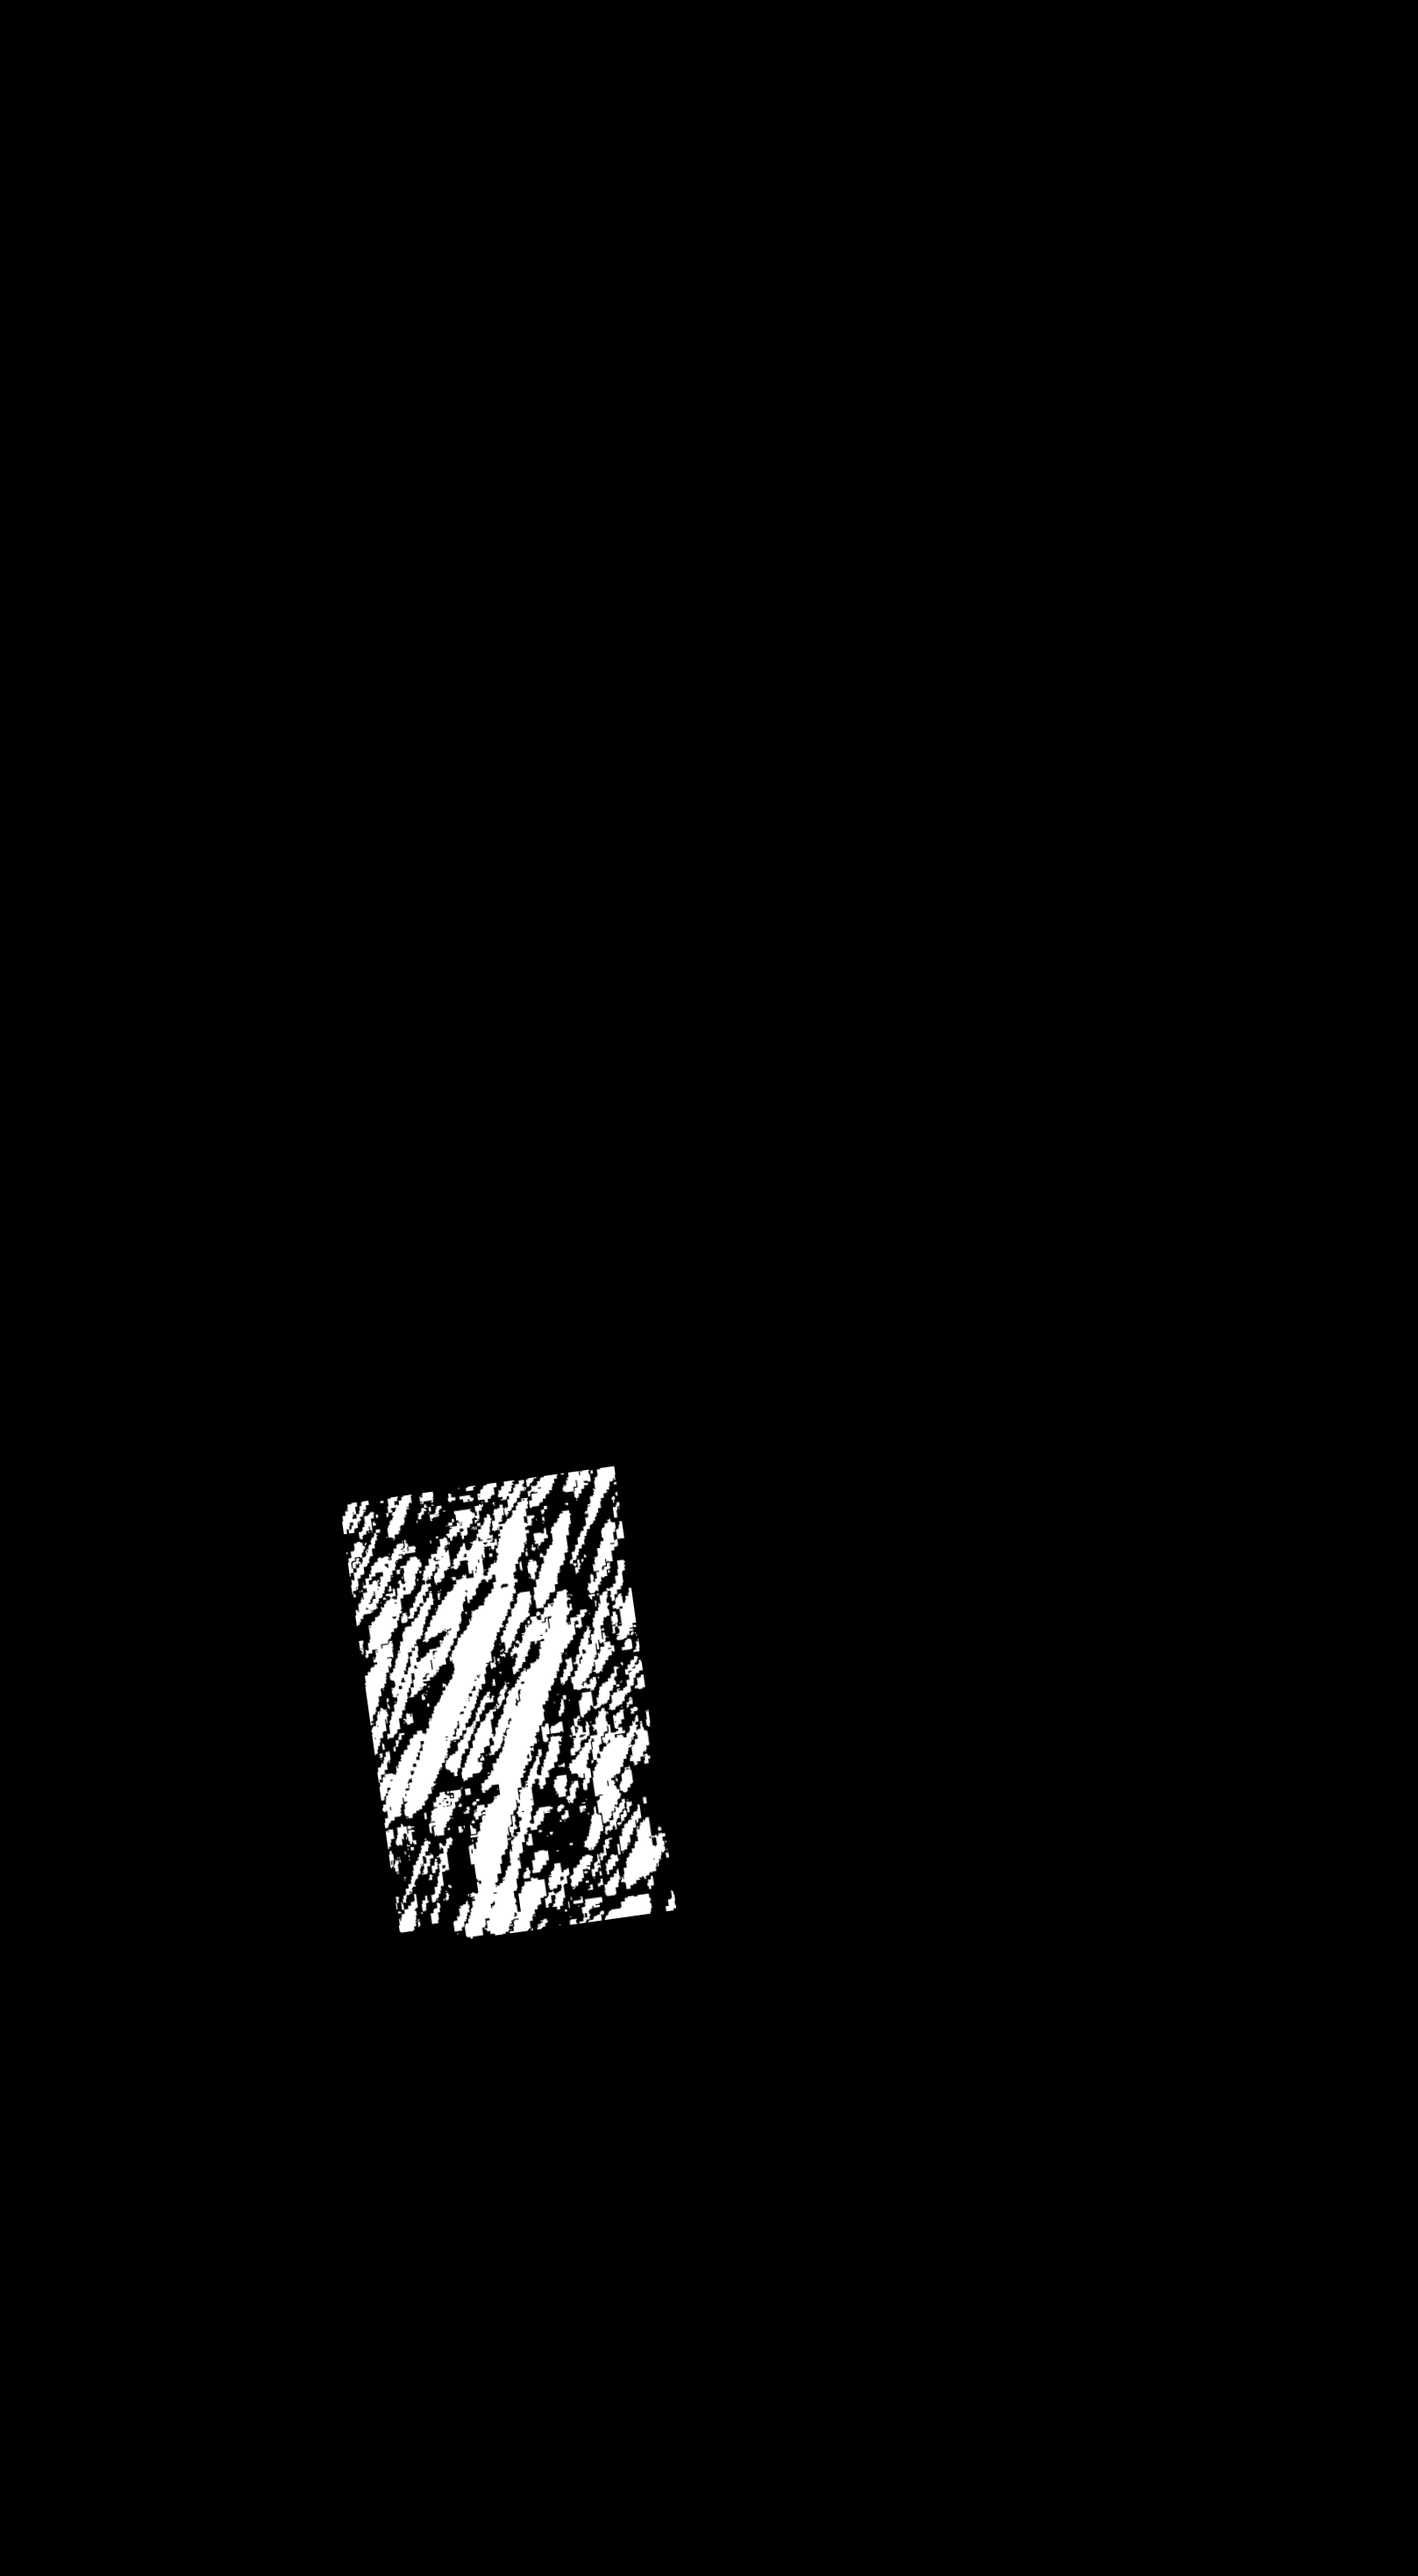
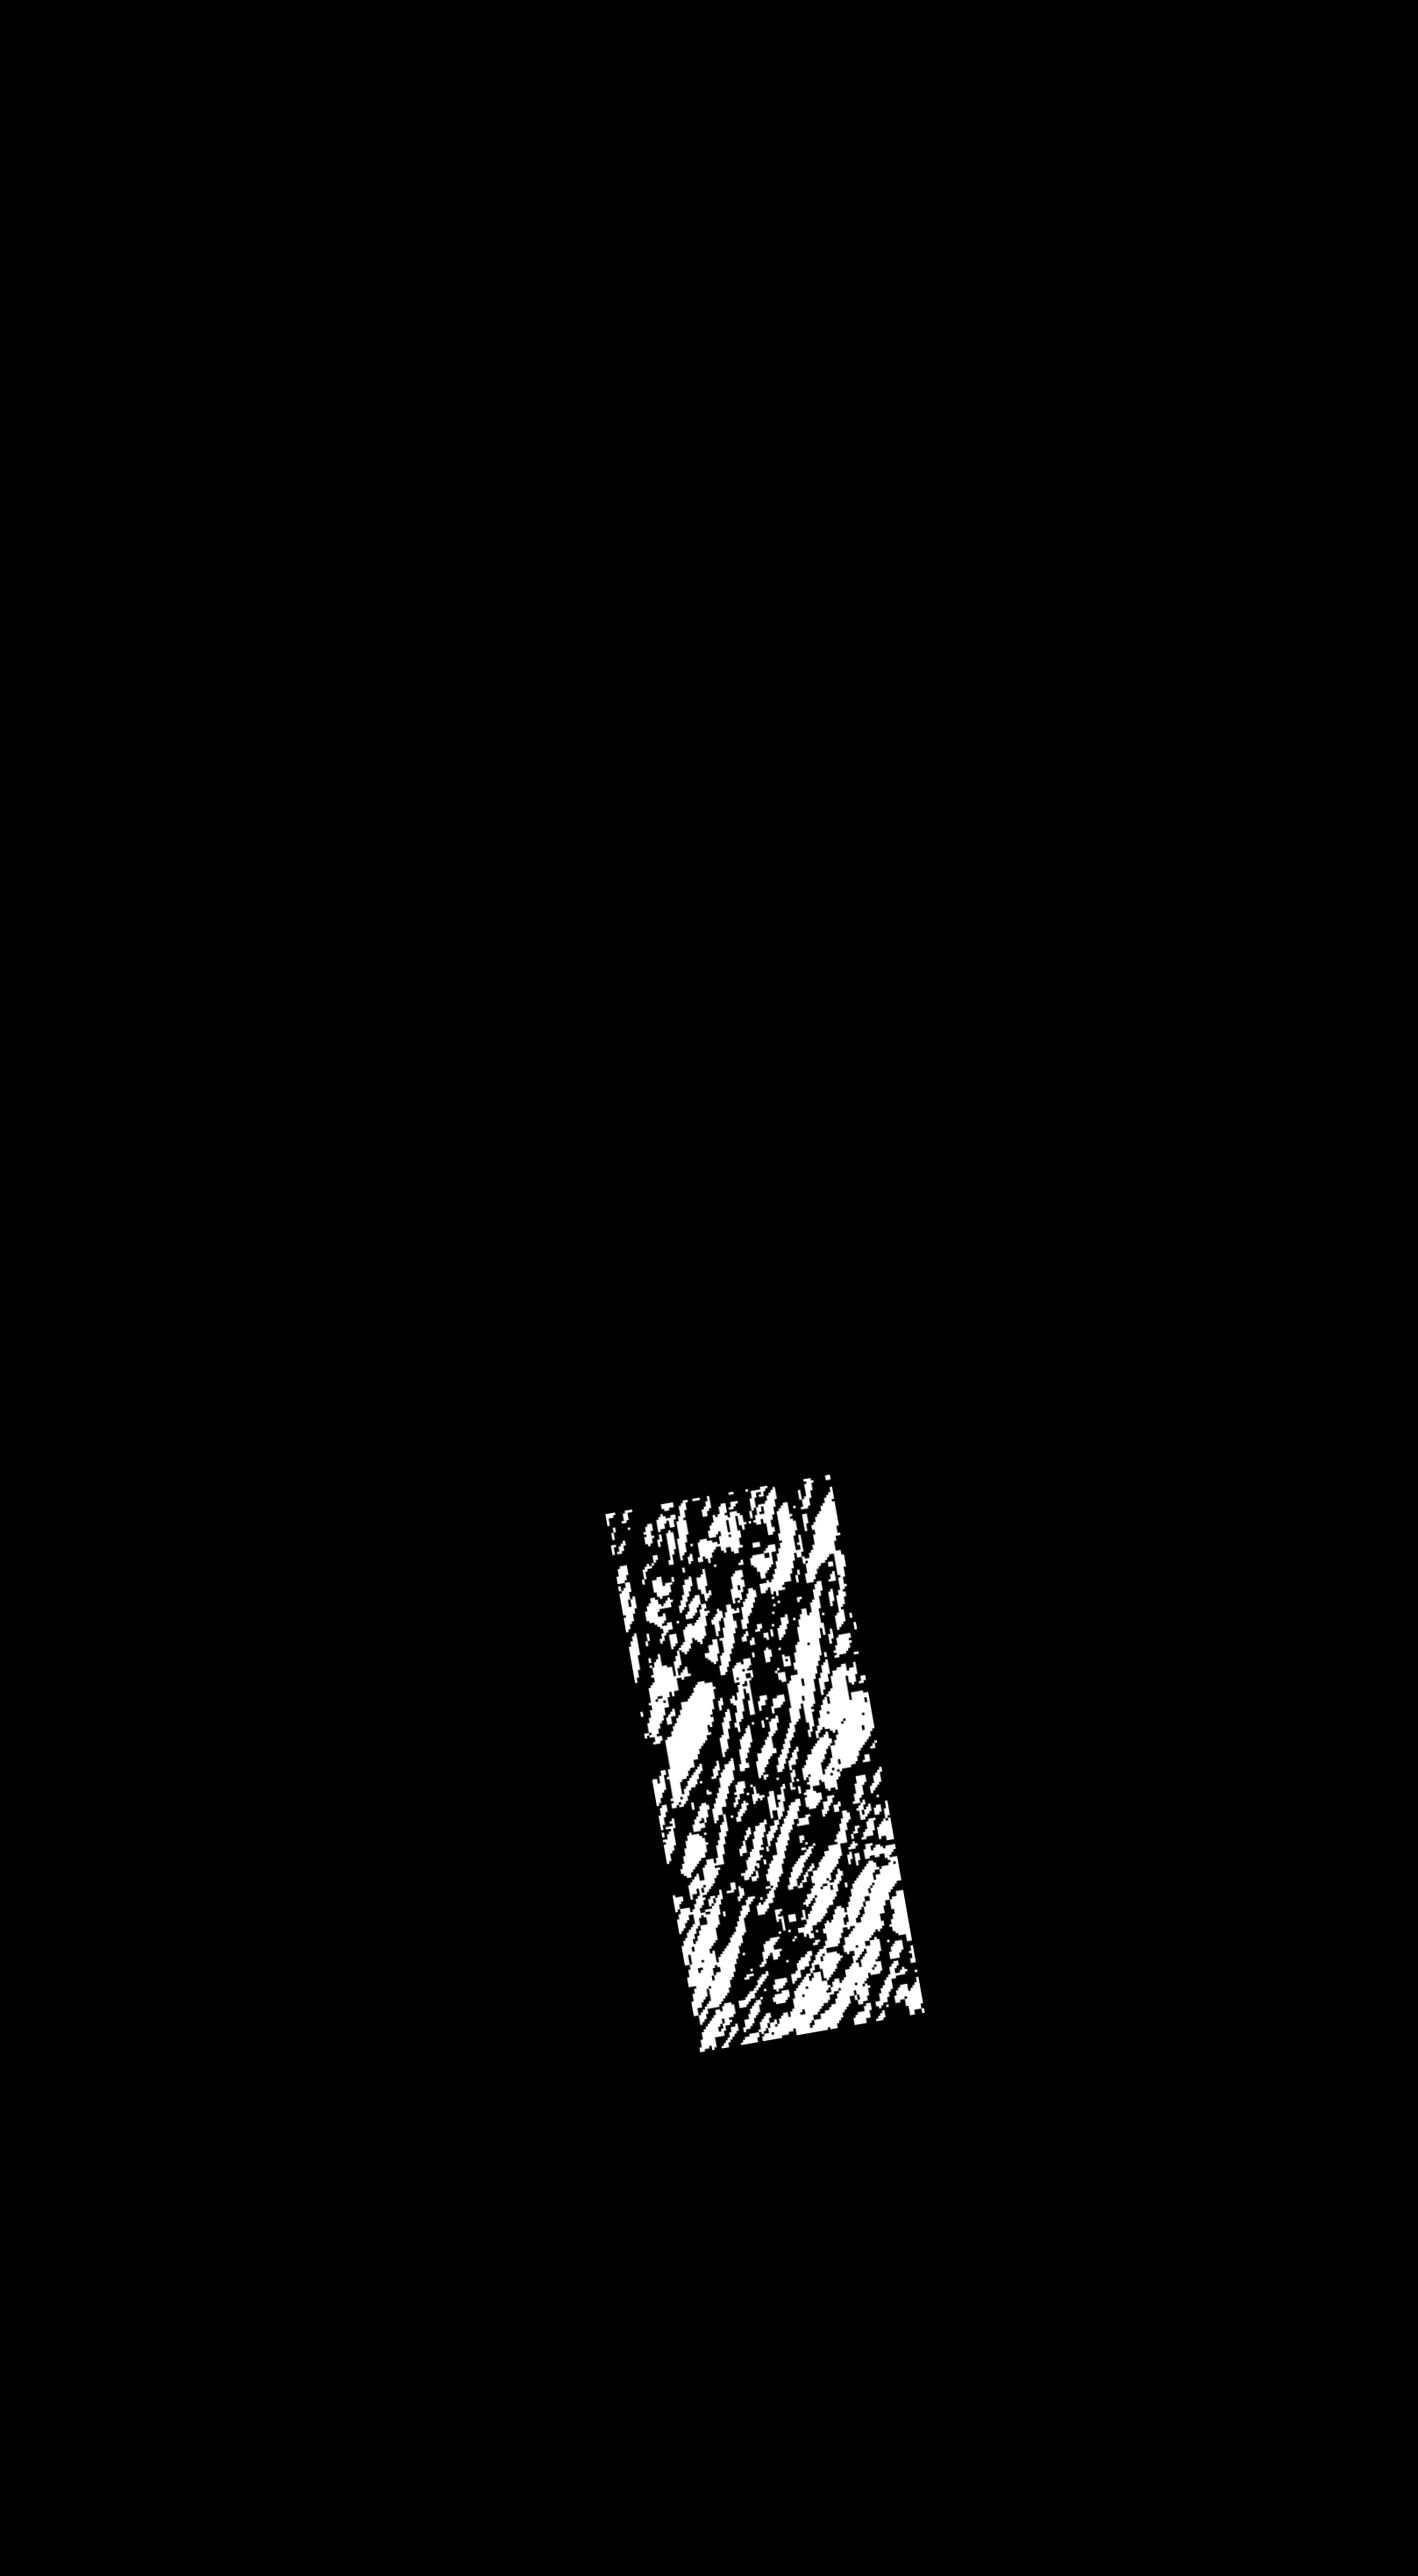
jan 27 update

Changed region(s): [[0.2474, 0.5577, 0.6494, 0.8056]]

diff --git a/scripts/run_align_command (align SEMCL to EBSD).py b/scripts/run_align_command (align SEMCL to EBSD).py
@@ -28,23 +28,23 @@ def main() -> None:
 #     seg_ref_path = repo_root / "data/RV/binary_ebsd_halfstone_floyd_maskout_black_compress.png" # switched between "seg" and "ebsd" 
 #     ebsd_ref_path = repo_root / "data/RV/binary_semcl_halfstone_floyd_cropped_compress.png"# switched between "seg" and "ebsd"
 # =============================================================================
-    seg_ref_path = repo_root / "data/RV/EBSD raw subset 1 maxentropy.png" # switched between "seg" and "ebsd" 
+    seg_ref_path = repo_root / "data/RV/EBSD raw subset 5 maxentropy.png" # switched between "seg" and "ebsd" 
     ebsd_ref_path = repo_root / "data/RV/SEMCL cropped for intensity analysis maxentropy.png"# switched between "seg" and "ebsd"
 # =============================================================================
 #     seg_ref_path = r"C:\Users\yuhan\Box\ChoyLab\Group members\Andrew\EBSD help Ricardo\dark spot analysis EPMA SEMCL\epma_binary_compress.png"
 #     ebsd_ref_path = r"C:\Users\yuhan\Box\ChoyLab\Group members\Andrew\EBSD help Ricardo\dark spot analysis EPMA SEMCL\semcl_nathans_mod_ML_results_imagej_modified-1 compress.png"
 # =============================================================================
-    config_path = repo_root / "conf/RV.align1.conf"
+    config_path = repo_root / "conf/RV.align5.conf"
     align_dir = repo_root / "data/RV/segment.align"
     out_dir = repo_root / "data/RV/out"    
     xp_id = 0
-    alpha_foreground = 1  # transparency between 0-1
-    alpha_background = 1  # transparency between 0-1
-    overlay_foreground_cmap = "Wistia"  # yellow-forward colormap for EBSD overlay
-    overlay_background_cmap = "cool"  # cyan-forward colormap for SEMCL overlay
+    alpha_foreground = 0.9  # transparency between 0-1
+    alpha_background = 0.5  # transparency between 0-1
+    overlay_foreground_cmap = "OrRd"  # yellow-forward colormap for EBSD overlay
+    overlay_background_cmap = "gray"  # cyan-forward colormap for SEMCL overlay
     overlay_mask_threshold = 0  # mask <= threshold so binary zeros stay transparent
-    overlay_background_color_min = 0.05  # fallback to gray if the SEMCL image is very dark
-    overlay_foreground_color_min = 0.05  # fallback to gray if the EBSD image is very dark
+    overlay_background_color_min = 0  # fallback to gray if the SEMCL image is very dark
+    overlay_foreground_color_min = 0  # fallback to gray if the EBSD image is very dark
     show_image_outline = True  # set to False to hide the orange rectangle showing the segment bounds on the overlay
     include_axes = False
     figure_dpi = 300

diff --git a/scripts/rescale factor.py b/scripts/rescale factor.py
@@ -8,7 +8,7 @@
 semcl_pixel_size = (30 / 2056) * (1617 / 1617)
 
 # EBSD pixel size (scaling from image dimensions)
-ebsd_pixel_size = (5 / 1046) * (4180 / 1125)
+ebsd_pixel_size = (5 / 1046) * (4180 / 490)
 
 # --------------------------------------------------
 # Area calculations
